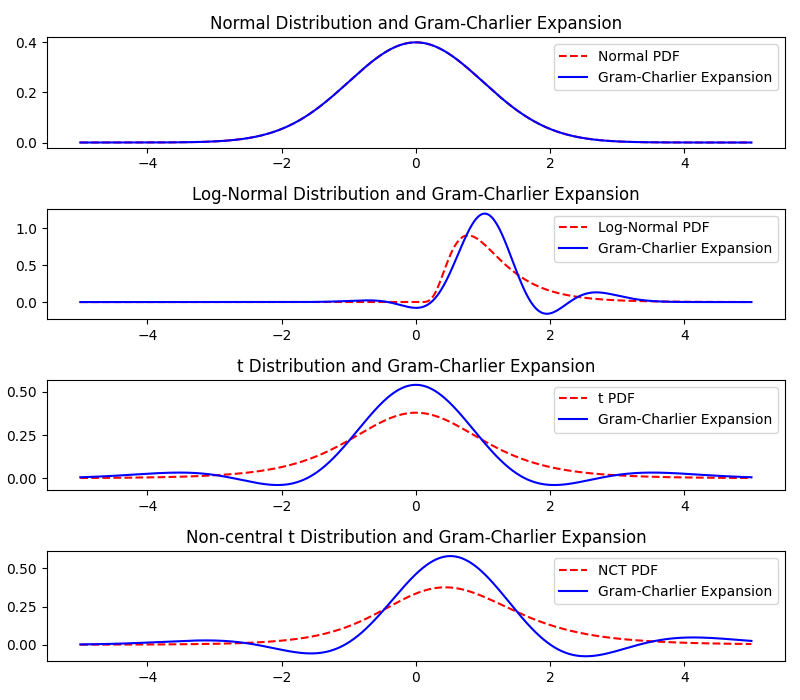
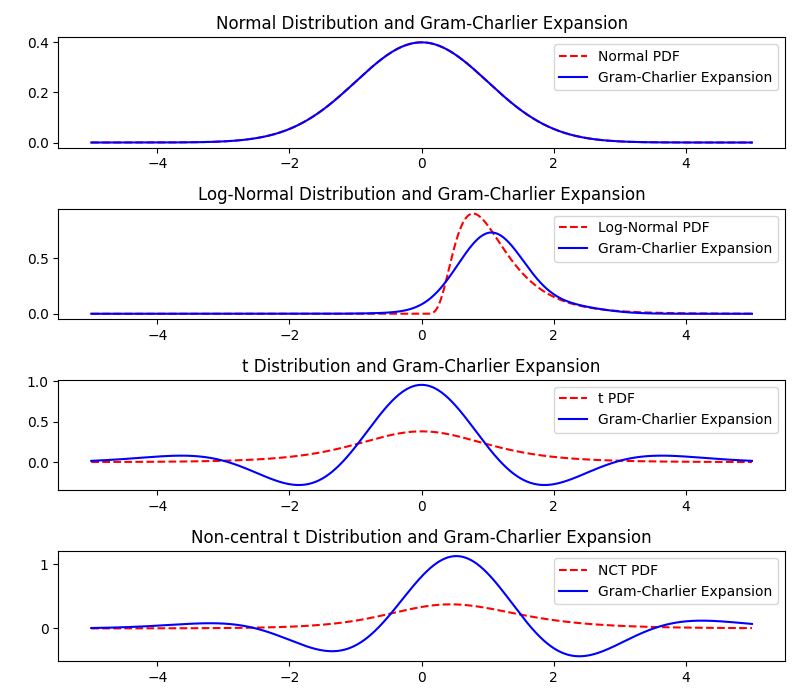
make distinction between skewness/kurt and cumulants

diff --git a/expansion_methods/saddle_approximation.py b/expansion_methods/saddle_approximation.py
@@ -5,39 +5,39 @@ from scipy.stats import norm, lognorm, t, nct
 def scipy_moments_to_cumulants(mean, variance, skewness, excess_kurtosis):
     return mean, variance, skewness*variance**1.5, excess_kurtosis*variance**2
 
-def cgf(x, mean, variance, skewness, kurtosis):
-    return mean*x + 0.5*variance*x**2 + skewness*x**3/6 + kurtosis*x**4/24
+def cgf(x, mean, variance, third_cumulant, fourth_cumulant):
+    return mean*x + 0.5*variance*x**2 + third_cumulant*x**3/6 + fourth_cumulant*x**4/24
 
-def derivative_cgf(x, mean, variance, skewness, kurtosis):
-    return mean + variance*x + skewness*x**2/2 + kurtosis*x**3/6
+def derivative_cgf(x, mean, variance, third_cumulant, fourth_cumulant):
+    return mean + variance*x + third_cumulant*x**2/2 + fourth_cumulant*x**3/6
 
-def second_derivative_cgf(x, mean, variance, skewness, kurtosis):
-    return variance + skewness*x + kurtosis*x**2/2
+def second_derivative_cgf(x, mean, variance, third_cumulant, fourth_cumulant):
+    return variance + third_cumulant*x + fourth_cumulant*x**2/2
 
-def find_saddlepoint(z, mean, variance, skewness, kurtosis):
+def find_saddlepoint(z, mean, variance, third_cumulant, fourth_cumulant):
     """solves K'(t) = z and returns t"""
-    if kurtosis == 0 and skewness == 0 and variance == 0:
+    if fourth_cumulant == 0 and third_cumulant == 0 and variance == 0:
         return None
-    elif kurtosis == 0 and skewness == 0:
+    elif fourth_cumulant == 0 and third_cumulant == 0:
         return (z - mean)/variance
-    elif kurtosis == 0:
+    elif fourth_cumulant == 0:
         # can this ever happen?
-        sqrt_term = np.sqrt(-2*mean*skewness + 2*skewness*z + variance**2)
-        return (sqrt_term - variance)/skewness
+        sqrt_term = np.sqrt(-2*mean*third_cumulant + 2*third_cumulant*z + variance**2)
+        return (sqrt_term - variance)/third_cumulant
         # return (-sqrt_term - variance)/skewness
     else:
-        term_with_162 = -162*kurtosis**2*mean + 162*kurtosis**2*z + 162*kurtosis*skewness*variance - 54*skewness**3
-        term_with_18 = 18*kurtosis*variance - 9*skewness**2
+        term_with_162 = -162*fourth_cumulant**2*mean + 162*fourth_cumulant**2*z + 162*fourth_cumulant*third_cumulant*variance - 54*third_cumulant**3
+        term_with_18 = 18*fourth_cumulant*variance - 9*third_cumulant**2
         term_with_sqrt = np.sqrt(term_with_162**2 + 4*term_with_18**3)
-        return 1/(3*np.cbrt(2)*kurtosis) * np.cbrt(term_with_sqrt + term_with_162) - (np.cbrt(2)*term_with_18)/(3*kurtosis*np.cbrt(term_with_sqrt + term_with_162)) - skewness/kurtosis
+        return 1/(3*np.cbrt(2)*fourth_cumulant) * np.cbrt(term_with_sqrt + term_with_162) - (np.cbrt(2)*term_with_18)/(3*fourth_cumulant*np.cbrt(term_with_sqrt + term_with_162)) - third_cumulant/fourth_cumulant
     
 # print(find_saddlepoint(5, 0, 5/3, 0, 6))
 
 # Function to generate Saddlepoint Approximation
-def saddlepoint_approximation(x, mean, variance, skewness, kurtosis):
+def saddlepoint_approximation(x, mean, variance, third_cumulant, fourth_cumulant):
     # get saddle point for x
-    s = find_saddlepoint(x, mean, variance, skewness, kurtosis)
-    return 1/np.sqrt(2*np.pi*second_derivative_cgf(s, mean, variance, skewness, kurtosis)) * np.exp(cgf(s, mean, variance, skewness, kurtosis) - s*x)
+    s = find_saddlepoint(x, mean, variance, third_cumulant, fourth_cumulant)
+    return 1/np.sqrt(2*np.pi*second_derivative_cgf(s, mean, variance, third_cumulant, fourth_cumulant)) * np.exp(cgf(s, mean, variance, third_cumulant, fourth_cumulant) - s*x)
 
 # Calculate skewness and kurtosis
 normal_mean, normal_var, normal_skew, normal_exkurt = norm.stats(moments='mvsk')

diff --git a/expansion_methods/gc_expansion.py b/expansion_methods/gc_expansion.py
@@ -18,10 +18,13 @@ def hermite_polynomial(n, x):
 # plt.ylim(-10, 20)
 # plt.show()
 
+def scipy_moments_to_cumulants(mean, variance, skewness, excess_kurtosis):
+    return mean, variance, skewness*variance**1.5, excess_kurtosis*variance**2
+
 # Function to generate Gram-Charlier expansion
-def gram_charlier_expansion(x, mean, variance, skewness, excess_kurtosis):
+def gram_charlier_expansion(x, mean, variance, third_cumulant, fourth_cumulant):
     z = (x - mean) / np.sqrt(variance)
-    return norm.pdf(x, loc = mean, scale = np.sqrt(variance)) * (1 + skewness/6 * hermite_polynomial(3, z) + excess_kurtosis/24 * hermite_polynomial(4, z))
+    return norm.pdf(x, loc = mean, scale = np.sqrt(variance)) * (1 + third_cumulant/6 * hermite_polynomial(3, z) + fourth_cumulant/24 * hermite_polynomial(4, z))
 
 # Calculate skewness and kurtosis
 normal_mean, normal_var, normal_skew, normal_exkurt = norm.stats(moments='mvsk')
@@ -38,10 +41,10 @@ print(nct_skew, nct_exkurt)
 x = np.linspace(-5, 5, 1000)
 
 # Apply Gram-Charlier expansion
-normal_expansion = gram_charlier_expansion(x, normal_mean, normal_var, normal_skew, normal_exkurt)
-lognorm_expansion = gram_charlier_expansion(x, lognorm_mean, lognorm_var, lognorm_skew, lognorm_exkurt)
-t_expansion = gram_charlier_expansion(x, t_mean, t_var, t_skew, t_exkurt)
-nct_expansion = gram_charlier_expansion(x, nct_mean, nct_var, nct_skew, nct_exkurt)
+normal_expansion = gram_charlier_expansion(x, *scipy_moments_to_cumulants(normal_mean, normal_var, normal_skew, normal_exkurt))
+lognorm_expansion = gram_charlier_expansion(x, *scipy_moments_to_cumulants(lognorm_mean, lognorm_var, lognorm_skew, lognorm_exkurt))
+t_expansion = gram_charlier_expansion(x, *scipy_moments_to_cumulants(t_mean, t_var, t_skew, t_exkurt))
+nct_expansion = gram_charlier_expansion(x, *scipy_moments_to_cumulants(nct_mean, nct_var, nct_skew, nct_exkurt))
 
 # Plotting
 plt.figure(figsize=(8, 7))

diff --git a/expansion_methods/edgeworth_expansion.py b/expansion_methods/edgeworth_expansion.py
@@ -19,9 +19,12 @@ def hermite_polynomial(n, x):
 # plt.show()
 
 # Function to generate Edgeworth expansion
-def edgeworth_expansion(x, mean, variance, skewness, kurtosis):
+def edgeworth_expansion(x, mean, variance, third_cumulant, fourth_cumulant):
     z = (x - mean) / np.sqrt(variance)
-    return norm.pdf(z) * (1 + skewness/6 * hermite_polynomial(3, z) + kurtosis/24 * hermite_polynomial(4, z) + skewness**2/72 * hermite_polynomial(6, z))
+    return norm.pdf(z) * (1 + third_cumulant/6 * hermite_polynomial(3, z) + fourth_cumulant/24 * hermite_polynomial(4, z) + third_cumulant**2/72 * hermite_polynomial(6, z))
+
+def scipy_moments_to_cumulants(mean, variance, skewness, excess_kurtosis):
+    return mean, variance, skewness*variance**1.5, excess_kurtosis*variance**2
 
 # Calculate skewness and kurtosis
 normal_mean, normal_var, normal_skew, normal_exkurt = norm.stats(moments='mvsk')
@@ -38,10 +41,10 @@ print(nct_skew, nct_exkurt)
 x = np.linspace(-5, 5, 1000)
 
 # Apply Edgeworth expansion
-normal_expansion = edgeworth_expansion(x, normal_mean, normal_var, normal_skew, normal_exkurt)
-lognorm_expansion = edgeworth_expansion(x, lognorm_mean, lognorm_var, lognorm_skew, lognorm_exkurt)
-t_expansion = edgeworth_expansion(x, t_mean, t_var, t_skew, t_exkurt)
-nct_expansion = edgeworth_expansion(x, nct_mean, nct_var, nct_skew, nct_exkurt)
+normal_expansion = edgeworth_expansion(x, *scipy_moments_to_cumulants(normal_mean, normal_var, normal_skew, normal_exkurt))
+lognorm_expansion = edgeworth_expansion(x, *scipy_moments_to_cumulants(lognorm_mean, lognorm_var, lognorm_skew, lognorm_exkurt))
+t_expansion = edgeworth_expansion(x, *scipy_moments_to_cumulants(t_mean, t_var, t_skew, t_exkurt))
+nct_expansion = edgeworth_expansion(x, *scipy_moments_to_cumulants(nct_mean, nct_var, nct_skew, nct_exkurt))
 
 # Plotting
 plt.figure(figsize=(8, 7))

diff --git a/expansion_methods/README.md b/expansion_methods/README.md
@@ -27,16 +27,16 @@ Set parameters to $\sigma=0.5$, $\nu=5$ and $\mu=0.5$, yields (skewness, excess 
 - fit is not good
 - gram-charlie expansion gets negative, not a density
 
-Why is the difference at $x=0$ so big?
+Why is the difference at $x=0$ so big (for t distribution)?
 - pdf of t distribution mit $\nu$ degress of freedom: $f(x) = \frac{\Gamma\left(\frac{\nu+1}{2}\right)}{\sqrt{\nu\pi}\Gamma\left(\frac{\nu}{2}\right)}\left(1+\frac{x^2}{\nu}\right)^{-\frac{\nu+1}{2}}$
 - with $x=0$ and $\nu=5$ we get $f(0)=0.3796$
 - t distribution with this parameters has the following moments:
     - mean: 0
     - variance: 5/3
-    - skewness: 0
-    - excess kurtosis: 6
-- GC expansion with $z=\frac{x-\mu}{\sigma}$ and $f(z) = \phi(z)\left[1+\frac{s}{6}He_3(z) + \frac{k}{24}He_4(z)\right]$
-- $z = \sqrt{\frac{3}{5}}x = 0$ and $He_4(z)=z^4-6z^2+3$ gives $f(0)=0.3989\left[1+\frac{6}{24}\cdot 3\right] = 0.3989\cdot 1.75 = 0.6981$
+    - skewness: 0 -> $\kappa_3=0$
+    - excess kurtosis: 6 -> $\kappa_4  = 6 \cdot \left(\frac{5}{3}\right)^2 = \frac{50}{3}$
+- GC expansion with $z=\frac{x-\mu}{\sigma}$ and $f(z) = \phi(z)\left[1+\frac{\kappa_3}{6}He_3(z) + \frac{\kappa_4}{24}He_4(z)\right]$
+- $z = \sqrt{\frac{3}{5}}x = 0$ and $He_4(z)=z^4-6z^2+3$ gives $f(0)=0.3090\left[1+\frac{25}{36}\cdot 3\right] = 0.3090\cdot 3.0833 = 0.9527$
 - if we increase $x$ by a small amount, $z$ will be increased less (since $\sqrt{\frac{3}{5}}=0.7746$), higher powers of $z$ (like $z^4$, $z^3$) will be smaller than lower powers of $z$ (like $z^2$, $z$) and lower powers of $z$ have negative coefficients in Hermite-Polynomials ($He_3(z) = z^3-3z$, $He_4(z)=z^4-6z^2+3$) which will counteract the $+3$ in $He_4$ and $+1$ in factor after $\phi(z)$, especially for high kurtosis.
 - adding more terms to the expansion will not help, 5th moment will be 0 for any t distribution with more than 5 degrees of freedom, for 5 df, the 5th and higher moments are not defined
 
